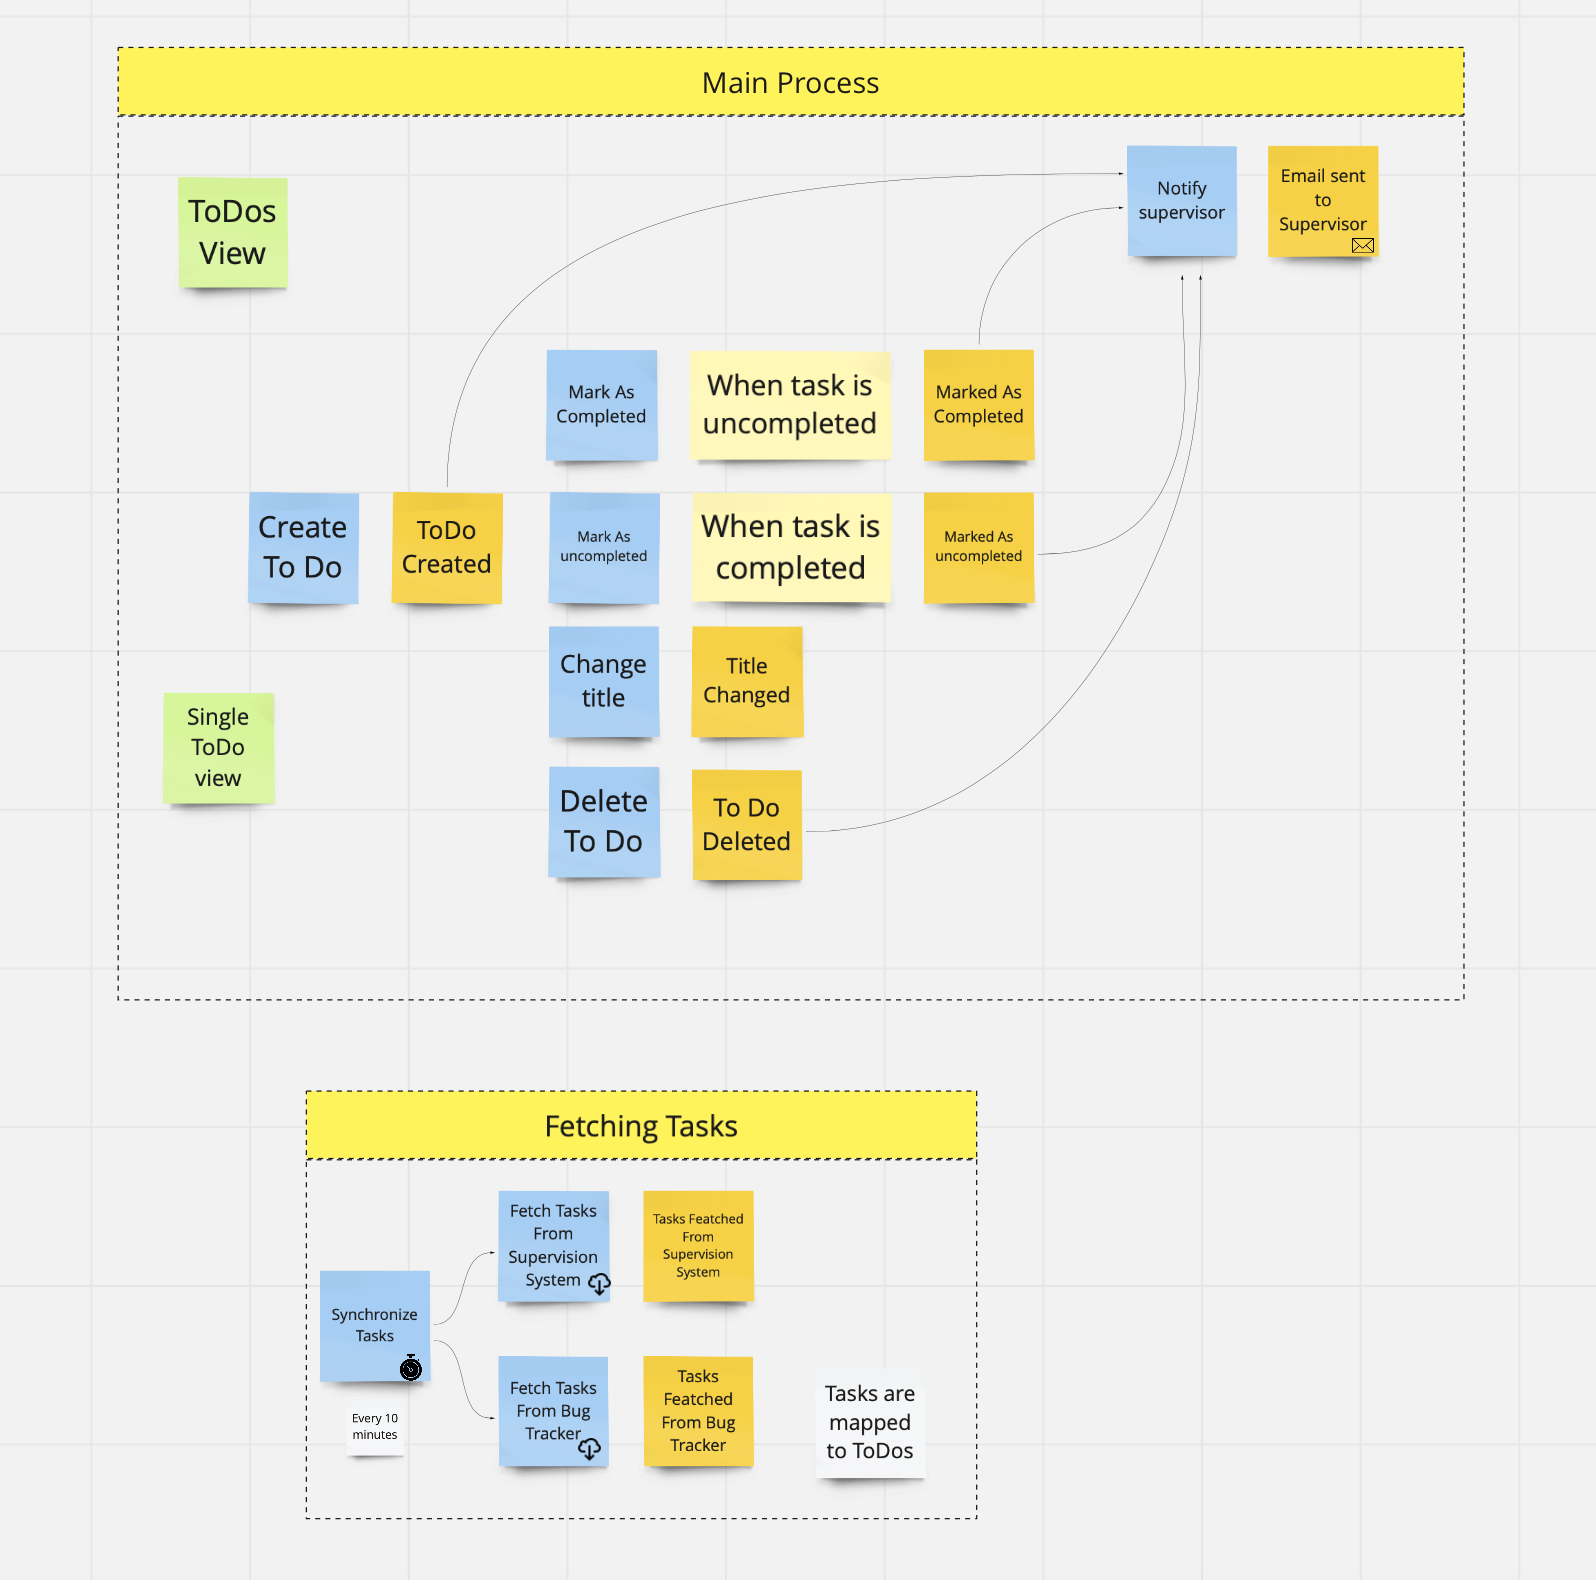
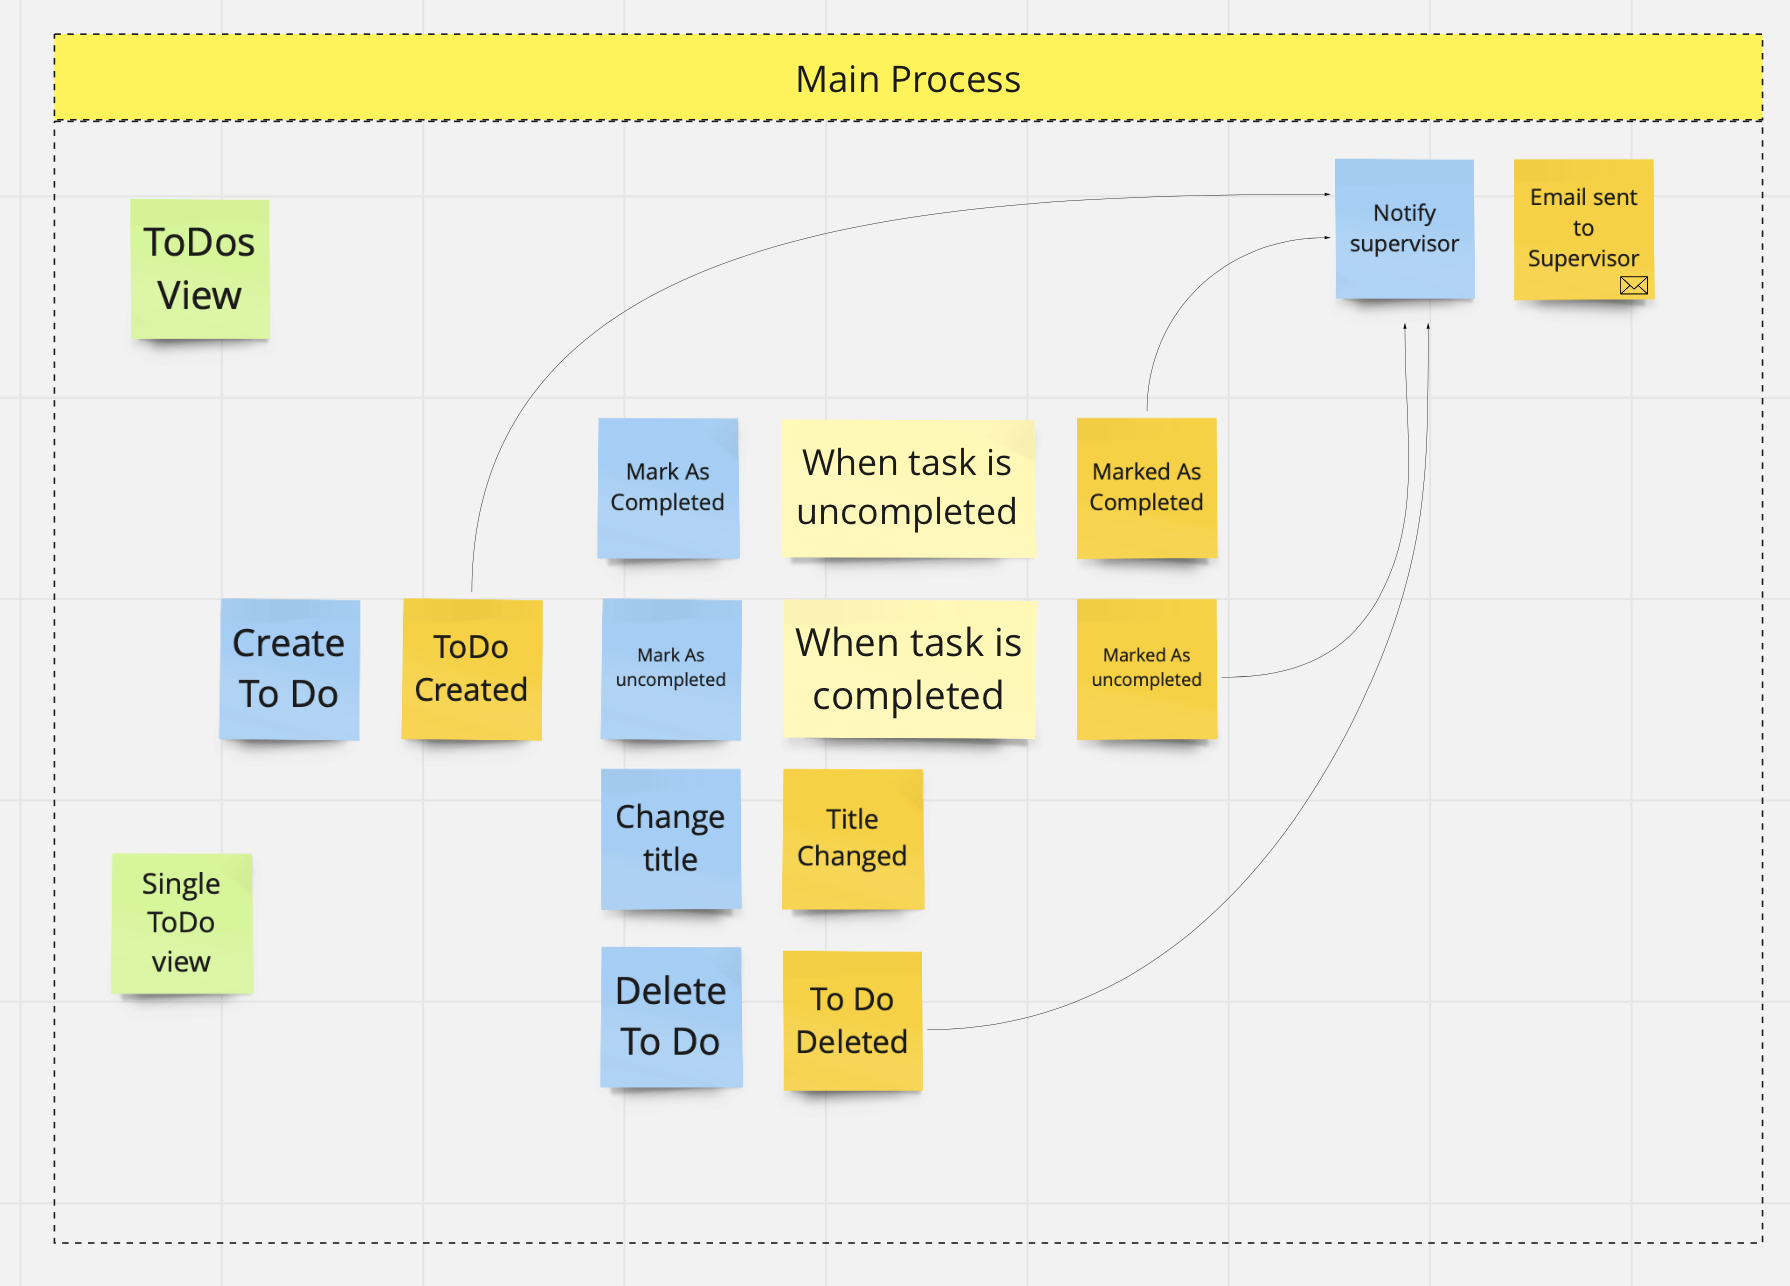
changed to do domain description

diff --git a/src/ToDoAsLessCodeAsPossible.UseCases.Tests/Commands/CreateToDos/CreateToDoHandlerTests.cs b/src/ToDoAsLessCodeAsPossible.UseCases.Tests/Commands/CreateToDos/CreateToDoHandlerTests.cs
@@ -37,5 +37,4 @@ public class CreateToDoHandlerTests
         result.Id.ShouldNotBeNull();
         toDo.ShouldNotBeNull();
     }
-    
 }

diff --git a/README.md b/README.md
@@ -7,7 +7,7 @@
 
 ## Project Domain
 
-It's simple To Do solution, when user can create 'to dos' and mark them as completed. To Dos are periodicaly created based on Task from **Supervisor system and Bug Tracker**. 
+It's simple To Do solution, when user can create 'to dos', mark them as completed/uncompleted and change title. 
 
 ![TODo Domain](./docs/ToDo_Domain.png)
 
